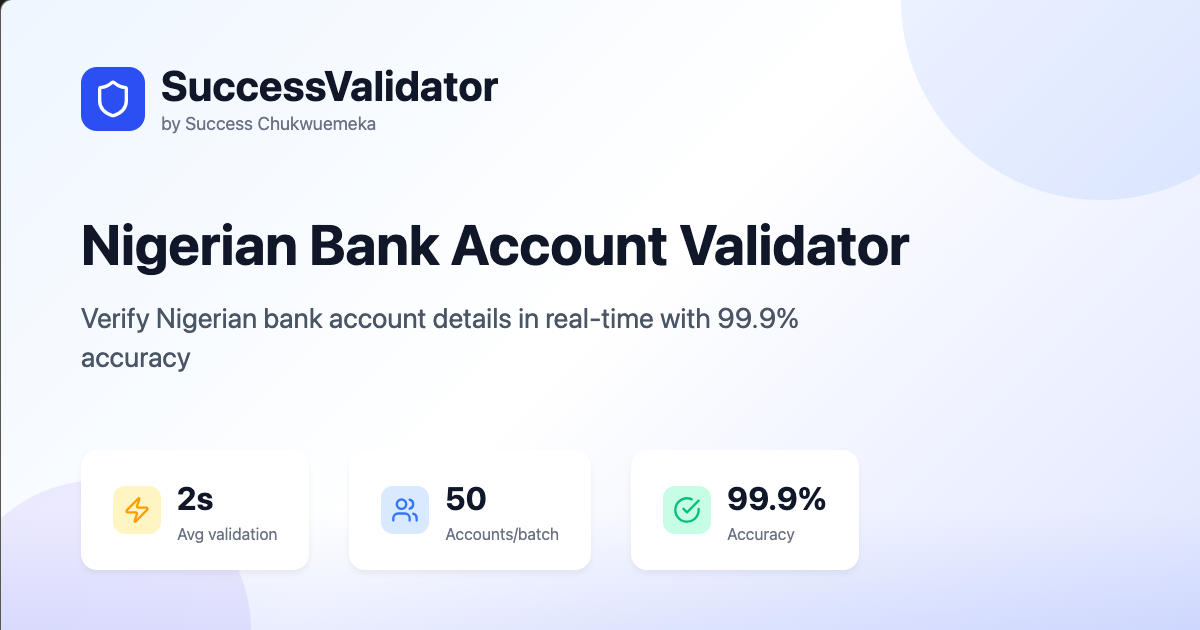
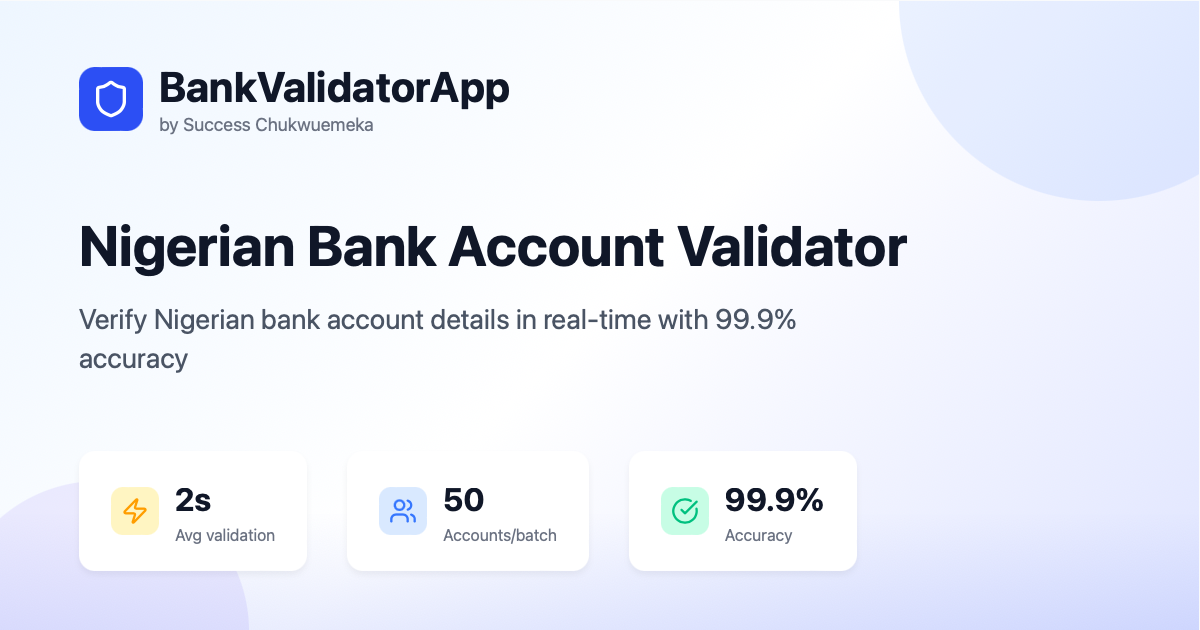
Edited the app name and OG image

diff --git a/src/pages/og-image.jsx b/src/pages/og-image.jsx
@@ -1,0 +1,224 @@
+import { Shield, Zap, Users, CheckCircle } from "lucide-react";
+
+export default function OGImage() {
+    return (
+        <div
+            style={{
+                width: '1200px',
+                height: '630px',
+                display: 'flex',
+                background: 'linear-gradient(135deg, #EFF6FF 0%, #FFFFFF 50%, #E0E7FF 100%)',
+                position: 'relative',
+                overflow: 'hidden',
+            }}
+        >
+            {/* Decorative circles */}
+            <div
+                style={{
+                    position: 'absolute',
+                    width: '400px',
+                    height: '400px',
+                    borderRadius: '50%',
+                    background: 'rgba(59, 130, 246, 0.1)',
+                    top: '-200px',
+                    right: '-100px',
+                }}
+            />
+            <div
+                style={{
+                    position: 'absolute',
+                    width: '300px',
+                    height: '300px',
+                    borderRadius: '50%',
+                    background: 'rgba(99, 102, 241, 0.1)',
+                    bottom: '-150px',
+                    left: '-50px',
+                }}
+            />
+
+            {/* Main content container */}
+            <div
+                style={{
+                    display: 'flex',
+                    flexDirection: 'column',
+                    justifyContent: 'space-between',
+                    padding: '60px 80px',
+                    width: '100%',
+                    position: 'relative',
+                    zIndex: 1,
+                }}
+            >
+                {/* Header with logo and brand */}
+                <div style={{ display: 'flex', alignItems: 'center', gap: '16px' }}>
+                    <div
+                        style={{
+                            width: '64px',
+                            height: '64px',
+                            background: '#2563EB',
+                            borderRadius: '16px',
+                            display: 'flex',
+                            alignItems: 'center',
+                            justifyContent: 'center',
+                        }}
+                    >
+                        <Shield style={{ width: '40px', height: '40px', color: 'white' }} />
+                    </div>
+                    <div>
+                        <h1
+                            style={{
+                                fontSize: '42px',
+                                fontWeight: 'bold',
+                                color: '#111827',
+                                margin: 0,
+                                lineHeight: 1.2,
+                            }}
+                        >
+                            BankValidatorApp
+                        </h1>
+                        <p
+                            style={{
+                                fontSize: '18px',
+                                color: '#6B7280',
+                                margin: 0,
+                            }}
+                        >
+                            by Success Chukwuemeka
+                        </p>
+                    </div>
+                </div>
+
+                {/* Main title and description */}
+                <div style={{ display: 'flex', flexDirection: 'column', gap: '20px' }}>
+                    <h2
+                        style={{
+                            fontSize: '56px',
+                            fontWeight: 'bold',
+                            color: '#111827',
+                            margin: 0,
+                            lineHeight: 1.2,
+                            maxWidth: '900px',
+                        }}
+                    >
+                        Nigerian Bank Account Validator
+                    </h2>
+                    <p
+                        style={{
+                            fontSize: '28px',
+                            color: '#4B5563',
+                            margin: 0,
+                            maxWidth: '800px',
+                            lineHeight: 1.4,
+                        }}
+                    >
+                        Verify Nigerian bank account details in real-time with 99.9% accuracy
+                    </p>
+                </div>
+
+                {/* Stats section */}
+                <div style={{ display: 'flex', gap: '40px' }}>
+                    <div
+                        style={{
+                            background: 'white',
+                            borderRadius: '16px',
+                            padding: '24px 32px',
+                            boxShadow: '0 4px 6px rgba(0, 0, 0, 0.05)',
+                            display: 'flex',
+                            alignItems: 'center',
+                            gap: '16px',
+                        }}
+                    >
+                        <div
+                            style={{
+                                width: '48px',
+                                height: '48px',
+                                background: '#FEF3C7',
+                                borderRadius: '12px',
+                                display: 'flex',
+                                alignItems: 'center',
+                                justifyContent: 'center',
+                            }}
+                        >
+                            <Zap style={{ width: '28px', height: '28px', color: '#F59E0B' }} />
+                        </div>
+                        <div>
+                            <div style={{ fontSize: '32px', fontWeight: 'bold', color: '#111827' }}>2s</div>
+                            <div style={{ fontSize: '16px', color: '#6B7280' }}>Avg validation</div>
+                        </div>
+                    </div>
+
+                    <div
+                        style={{
+                            background: 'white',
+                            borderRadius: '16px',
+                            padding: '24px 32px',
+                            boxShadow: '0 4px 6px rgba(0, 0, 0, 0.05)',
+                            display: 'flex',
+                            alignItems: 'center',
+                            gap: '16px',
+                        }}
+                    >
+                        <div
+                            style={{
+                                width: '48px',
+                                height: '48px',
+                                background: '#DBEAFE',
+                                borderRadius: '12px',
+                                display: 'flex',
+                                alignItems: 'center',
+                                justifyContent: 'center',
+                            }}
+                        >
+                            <Users style={{ width: '28px', height: '28px', color: '#3B82F6' }} />
+                        </div>
+                        <div>
+                            <div style={{ fontSize: '32px', fontWeight: 'bold', color: '#111827' }}>50</div>
+                            <div style={{ fontSize: '16px', color: '#6B7280' }}>Accounts/batch</div>
+                        </div>
+                    </div>
+
+                    <div
+                        style={{
+                            background: 'white',
+                            borderRadius: '16px',
+                            padding: '24px 32px',
+                            boxShadow: '0 4px 6px rgba(0, 0, 0, 0.05)',
+                            display: 'flex',
+                            alignItems: 'center',
+                            gap: '16px',
+                        }}
+                    >
+                        <div
+                            style={{
+                                width: '48px',
+                                height: '48px',
+                                background: '#D1FAE5',
+                                borderRadius: '12px',
+                                display: 'flex',
+                                alignItems: 'center',
+                                justifyContent: 'center',
+                            }}
+                        >
+                            <CheckCircle style={{ width: '28px', height: '28px', color: '#10B981' }} />
+                        </div>
+                        <div>
+                            <div style={{ fontSize: '32px', fontWeight: 'bold', color: '#111827' }}>99.9%</div>
+                            <div style={{ fontSize: '16px', color: '#6B7280' }}>Accuracy</div>
+                        </div>
+                    </div>
+                </div>
+            </div>
+
+            {/* Gradient overlay at bottom */}
+            <div
+                style={{
+                    position: 'absolute',
+                    bottom: 0,
+                    left: 0,
+                    right: 0,
+                    height: '120px',
+                    background: 'linear-gradient(to top, rgba(37, 99, 235, 0.1), transparent)',
+                }}
+            />
+        </div>
+    );
+}

diff --git a/index.html b/index.html
@@ -25,24 +25,24 @@
     <!-- Open Graph / Facebook / LinkedIn -->
     <meta property="og:type" content="website" />
     <meta property="og:url" content="https://bankvalidatorapp.vercel.app/" />
-    <meta property="og:title" content="SuccessValidator - Nigerian Bank Account Validator" />
+    <meta property="og:title" content="Nigerian Bank Account Validator" />
     <meta property="og:description" content="Verify Nigerian bank account details in real-time with 99.9% accuracy. Validate single accounts or process up to 50 accounts in batch." />
     <meta property="og:image" content="https://bankvalidatorapp.vercel.app/og-image.png" />
     <meta property="og:image:secure_url" content="https://bankvalidatorapp.vercel.app/og-image.png" />
     <meta property="og:image:type" content="image/png" />
     <meta property="og:image:width" content="1200" />
     <meta property="og:image:height" content="630" />
-    <meta property="og:image:alt" content="SuccessValidator - Nigerian Bank Account Validator with 99.9% accuracy" />
-    <meta property="og:site_name" content="SuccessValidator" />
+    <meta property="og:image:alt" content="Nigerian Bank Account Validator with 99.9% accuracy" />
+    <meta property="og:site_name" content="BankValidatorApp" />
     <meta property="og:locale" content="en_NG" />
 
     <!-- Twitter -->
     <meta name="twitter:card" content="summary_large_image" />
     <meta name="twitter:url" content="https://bankvalidatorapp.vercel.app/" />
-    <meta name="twitter:title" content="SuccessValidator - Nigerian Bank Account Validator" />
+    <meta name="twitter:title" content="Nigerian Bank Account Validator" />
     <meta name="twitter:description" content="Verify Nigerian bank account details in real-time with 99.9% accuracy. Validate single accounts or process up to 50 accounts in batch." />
     <meta name="twitter:image" content="https://bankvalidatorapp.vercel.app/og-image.png" />
-    <meta name="twitter:image:alt" content="SuccessValidator - Nigerian Bank Account Validator" />
+    <meta name="twitter:image:alt" content="Nigerian Bank Account Validator" />
     <meta name="twitter:creator" content="@successdanesy" />
     <meta name="twitter:site" content="@successdanesy" />
 
@@ -51,8 +51,8 @@
     <meta name="mobile-web-app-capable" content="yes" />
     <meta name="apple-mobile-web-app-capable" content="yes" />
     <meta name="apple-mobile-web-app-status-bar-style" content="default" />
-    <meta name="apple-mobile-web-app-title" content="SuccessValidator" />
-    <meta name="application-name" content="SuccessValidator" />
+    <meta name="apple-mobile-web-app-title" content="BankValidatorApp" />
+    <meta name="application-name" content="BankValidatorApp" />
     <meta name="msapplication-TileColor" content="#2563EB" />
     <meta name="msapplication-config" content="/browserconfig.xml" />
 
@@ -74,7 +74,7 @@
         {
             "@context": "https://schema.org",
             "@type": "WebApplication",
-            "name": "SuccessValidator",
+            "name": "BankValidatorApp",
             "alternateName": "Nigerian Bank Account Validator",
             "url": "https://bankvalidatorapp.vercel.app",
             "description": "Verify Nigerian bank account details in real-time with 99.9% accuracy. Validate single accounts instantly or process up to 50 accounts in batch.",

diff --git a/src/pages/validator.jsx b/src/pages/validator.jsx
@@ -277,7 +277,7 @@ function Validator() {
                         <div className="flex items-center space-x-3">
                             <Shield className="h-8 w-8 text-blue-600" />
                             <div>
-                                <h1 className="text-xl md:text-2xl font-bold text-gray-900">SuccessValidator</h1>
+                                <h1 className="text-xl md:text-2xl font-bold text-gray-900">BankValidatorApp</h1>
                                 <p className="text-xs text-gray-500">by Success Chukwuemeka</p>
                             </div>
                         </div>
